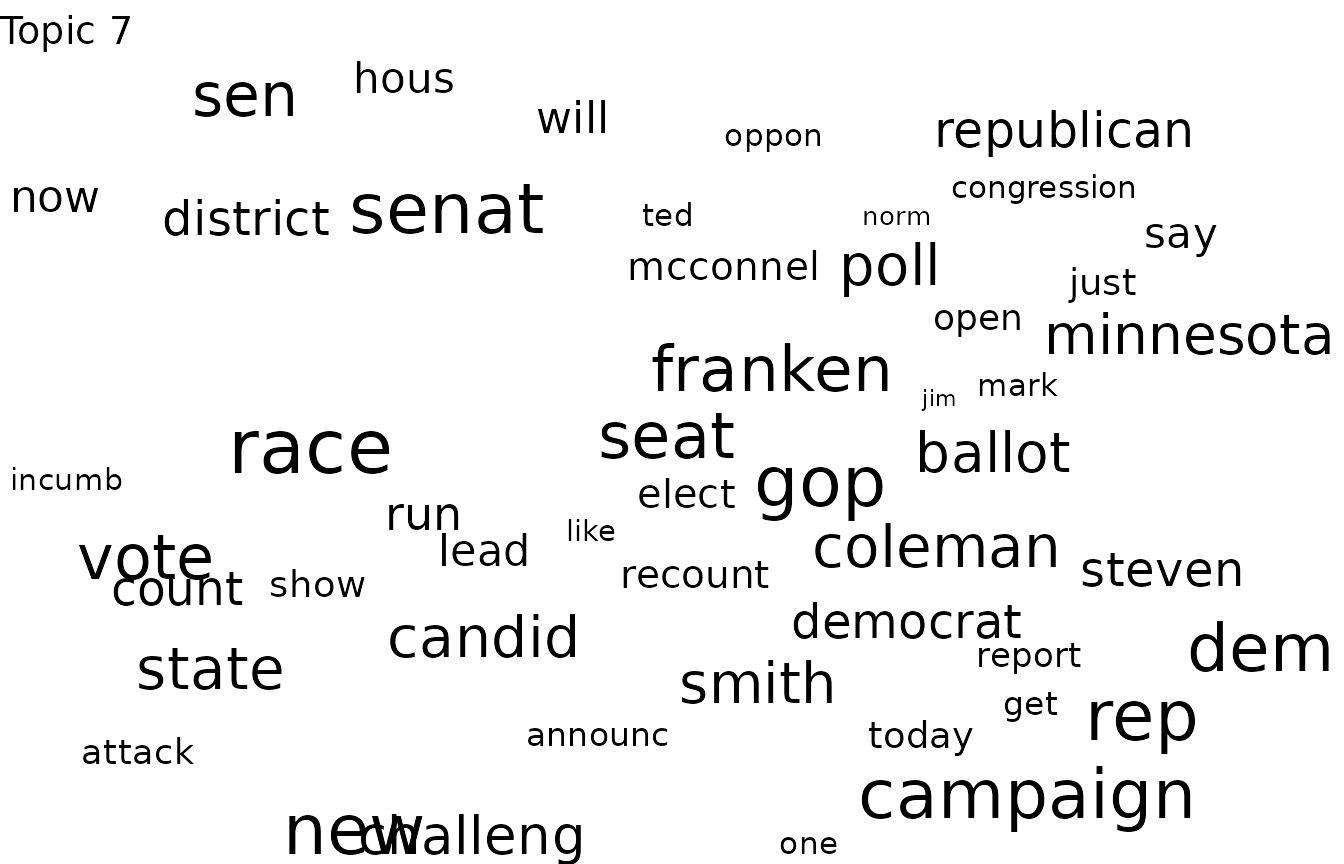
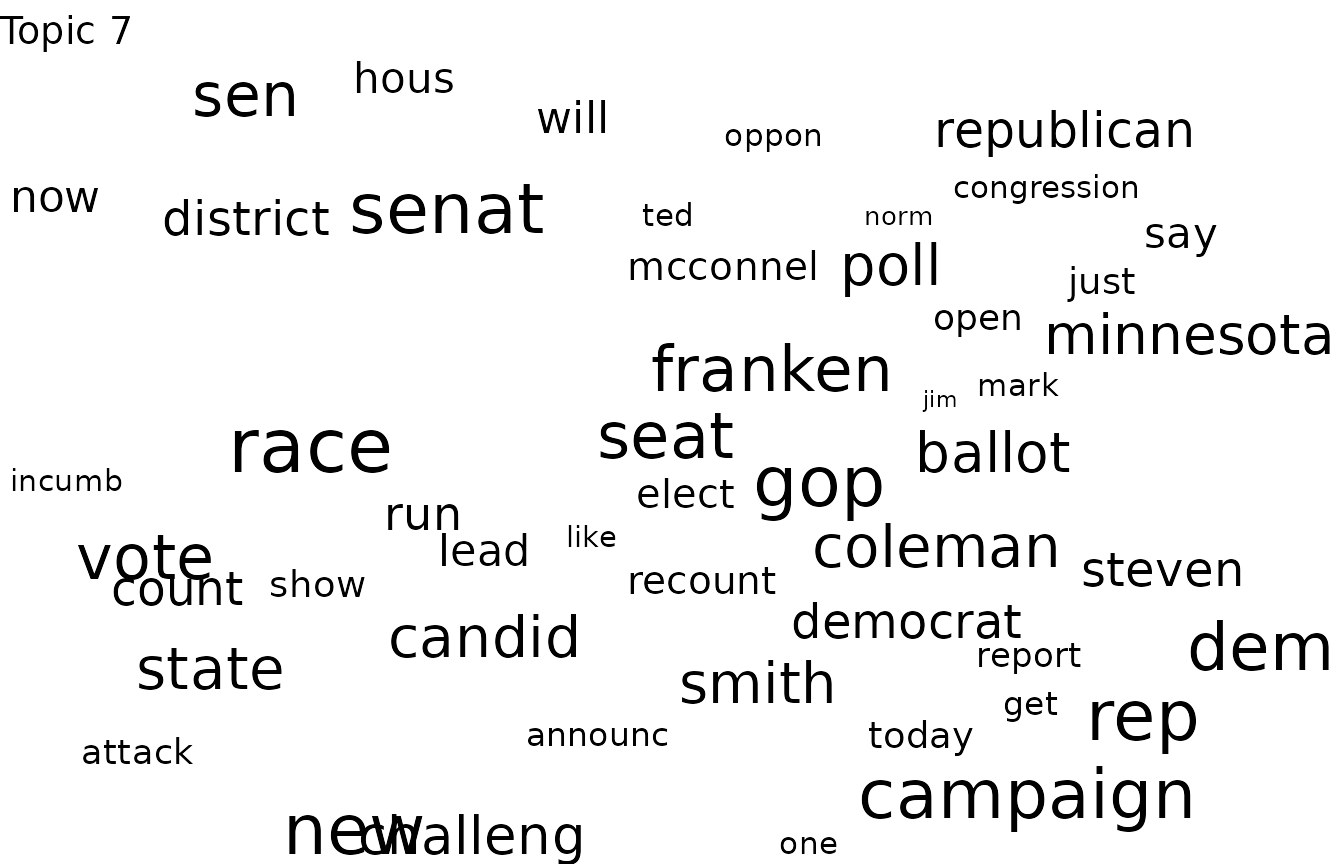
Deploying to gh-pages from @ nealcaren/faSTM@f4b7936baab7e70b84b2a3d4955ef434e6eb6240 🚀

diff --git a/authors.html b/authors.html
@@ -44,22 +44,49 @@
           <p><strong>Neal Caren</strong>. Author, maintainer.
           </p>
         </li>
+        <li>
+          <p><strong>Margaret Roberts</strong>. Copyright holder.
+          <br><small>author of stm; inspection formulas in inspect.R adapted from stm (MIT)</small></p>
+        </li>
+        <li>
+          <p><strong>Brandon Stewart</strong>. Copyright holder.
+          <br><small>author of stm (MIT)</small></p>
+        </li>
+        <li>
+          <p><strong>Dustin Tingley</strong>. Copyright holder.
+          <br><small>author of stm (MIT)</small></p>
+        </li>
       </ul></div>
 
     <div class="section level2">
       <h2 id="citation">Citation</h2>
-      <p><small class="dont-index">Source: <a href="https://github.com/nealcaren/faSTM/blob/master/DESCRIPTION" class="external-link"><code>DESCRIPTION</code></a></small></p>
+      <p><small class="dont-index">Source: <a href="https://github.com/nealcaren/faSTM/blob/master/inst/CITATION" class="external-link"><code>inst/CITATION</code></a></small></p>
 
       <p>Caren N (2026).
 <em>faSTM: Fast Structural Topic Models</em>.
-R package version 0.0.0.9000, <a href="https://nealcaren.github.io/faSTM/">https://nealcaren.github.io/faSTM/</a>.
+R package version 0.0.0.9000, <a href="https://github.com/nealcaren/faSTM" class="external-link">https://github.com/nealcaren/faSTM</a>.
 </p>
       <pre>@Manual{,
-  title = {faSTM: Fast Structural Topic Models},
+  title = {{faSTM}: Fast Structural Topic Models},
   author = {Neal Caren},
   year = {2026},
   note = {R package version 0.0.0.9000},
-  url = {https://nealcaren.github.io/faSTM/},
+  url = {https://github.com/nealcaren/faSTM},
+}</pre>
+      <p>Roberts ME, Stewart BM, Tingley D (2019).
+“stm: An R Package for Structural Topic Models.”
+<em>Journal of Statistical Software</em>, <b>91</b>(2), 1–40.
+<a href="https://doi.org/10.18637/jss.v091.i02" class="external-link">doi:10.18637/jss.v091.i02</a>.
+</p>
+      <pre>@Article{,
+  title = {{stm}: An {R} Package for Structural Topic Models},
+  author = {Margaret E. Roberts and Brandon M. Stewart and Dustin Tingley},
+  journal = {Journal of Statistical Software},
+  year = {2019},
+  volume = {91},
+  number = {2},
+  pages = {1--40},
+  doi = {10.18637/jss.v091.i02},
 }</pre>
     </div>
 

diff --git a/reference/faSTM-package.html b/reference/faSTM-package.html
@@ -76,6 +76,9 @@ faSTM contributes the fast fit (<code><a href="stm.html">stm()</a></code>) and a
     <h2 id="author">Author<a class="anchor" aria-label="anchor" href="#author"></a></h2>
     <p><strong>Maintainer</strong>: Neal Caren <a href="mailto:[email redacted]">[email redacted]</a></p>
 <p>Authors:</p><ul><li><p>Neal Caren <a href="mailto:[email redacted]">[email redacted]</a></p></li>
+</ul><p>Other contributors:</p><ul><li><p>Margaret Roberts (author of stm; inspection formulas in inspect.R adapted from stm (MIT)) [copyright holder]</p></li>
+<li><p>Brandon Stewart (author of stm (MIT)) [copyright holder]</p></li>
+<li><p>Dustin Tingley (author of stm (MIT)) [copyright holder]</p></li>
 </ul></div>
 
   </main><aside class="col-md-3"><nav id="toc" aria-label="Table of contents"><h2>On this page</h2>

diff --git a/index.html b/index.html
@@ -183,6 +183,7 @@
 <h2 data-toc-skip>Developers</h2>
 <ul class="list-unstyled">
 <li>Neal Caren <br><small class="roles"> Author, maintainer </small>   </li>
+<li><a href="authors.html">More about authors...</a></li>
 </ul>
 </div>
 

diff --git a/authors.md b/authors.md
@@ -4,18 +4,43 @@
 
 - **Neal Caren**. Author, maintainer.
 
+- **Margaret Roberts**. Copyright holder.  
+  author of stm; inspection formulas in inspect.R adapted from stm (MIT)
+
+- **Brandon Stewart**. Copyright holder.  
+  author of stm (MIT)
+
+- **Dustin Tingley**. Copyright holder.  
+  author of stm (MIT)
+
 ## Citation
 
 Source:
-[`DESCRIPTION`](https://github.com/nealcaren/faSTM/blob/master/DESCRIPTION)
+[`inst/CITATION`](https://github.com/nealcaren/faSTM/blob/master/inst/CITATION)
 
 Caren N (2026). *faSTM: Fast Structural Topic Models*. R package version
-0.0.0.9000, <https://nealcaren.github.io/faSTM/>.
+0.0.0.9000, <https://github.com/nealcaren/faSTM>.
 
     @Manual{,
-      title = {faSTM: Fast Structural Topic Models},
+      title = {{faSTM}: Fast Structural Topic Models},
       author = {Neal Caren},
       year = {2026},
       note = {R package version 0.0.0.9000},
-      url = {https://nealcaren.github.io/faSTM/},
+      url = {https://github.com/nealcaren/faSTM},
+    }
+
+Roberts ME, Stewart BM, Tingley D (2019). “stm: An R Package for
+Structural Topic Models.” *Journal of Statistical Software*, **91**(2),
+1–40.
+[doi:10.18637/jss.v091.i02](https://doi.org/10.18637/jss.v091.i02).
+
+    @Article{,
+      title = {{stm}: An {R} Package for Structural Topic Models},
+      author = {Margaret E. Roberts and Brandon M. Stewart and Dustin Tingley},
+      journal = {Journal of Statistical Software},
+      year = {2019},
+      volume = {91},
+      number = {2},
+      pages = {1--40},
+      doi = {10.18637/jss.v091.i02},
     }

diff --git a/reference/faSTM-package.md b/reference/faSTM-package.md
@@ -33,3 +33,12 @@ Useful links:
 Authors:
 
 - Neal Caren <[email redacted]>
+
+Other contributors:
+
+- Margaret Roberts (author of stm; inspection formulas in inspect.R
+  adapted from stm (MIT)) \[copyright holder\]
+
+- Brandon Stewart (author of stm (MIT)) \[copyright holder\]
+
+- Dustin Tingley (author of stm (MIT)) \[copyright holder\]